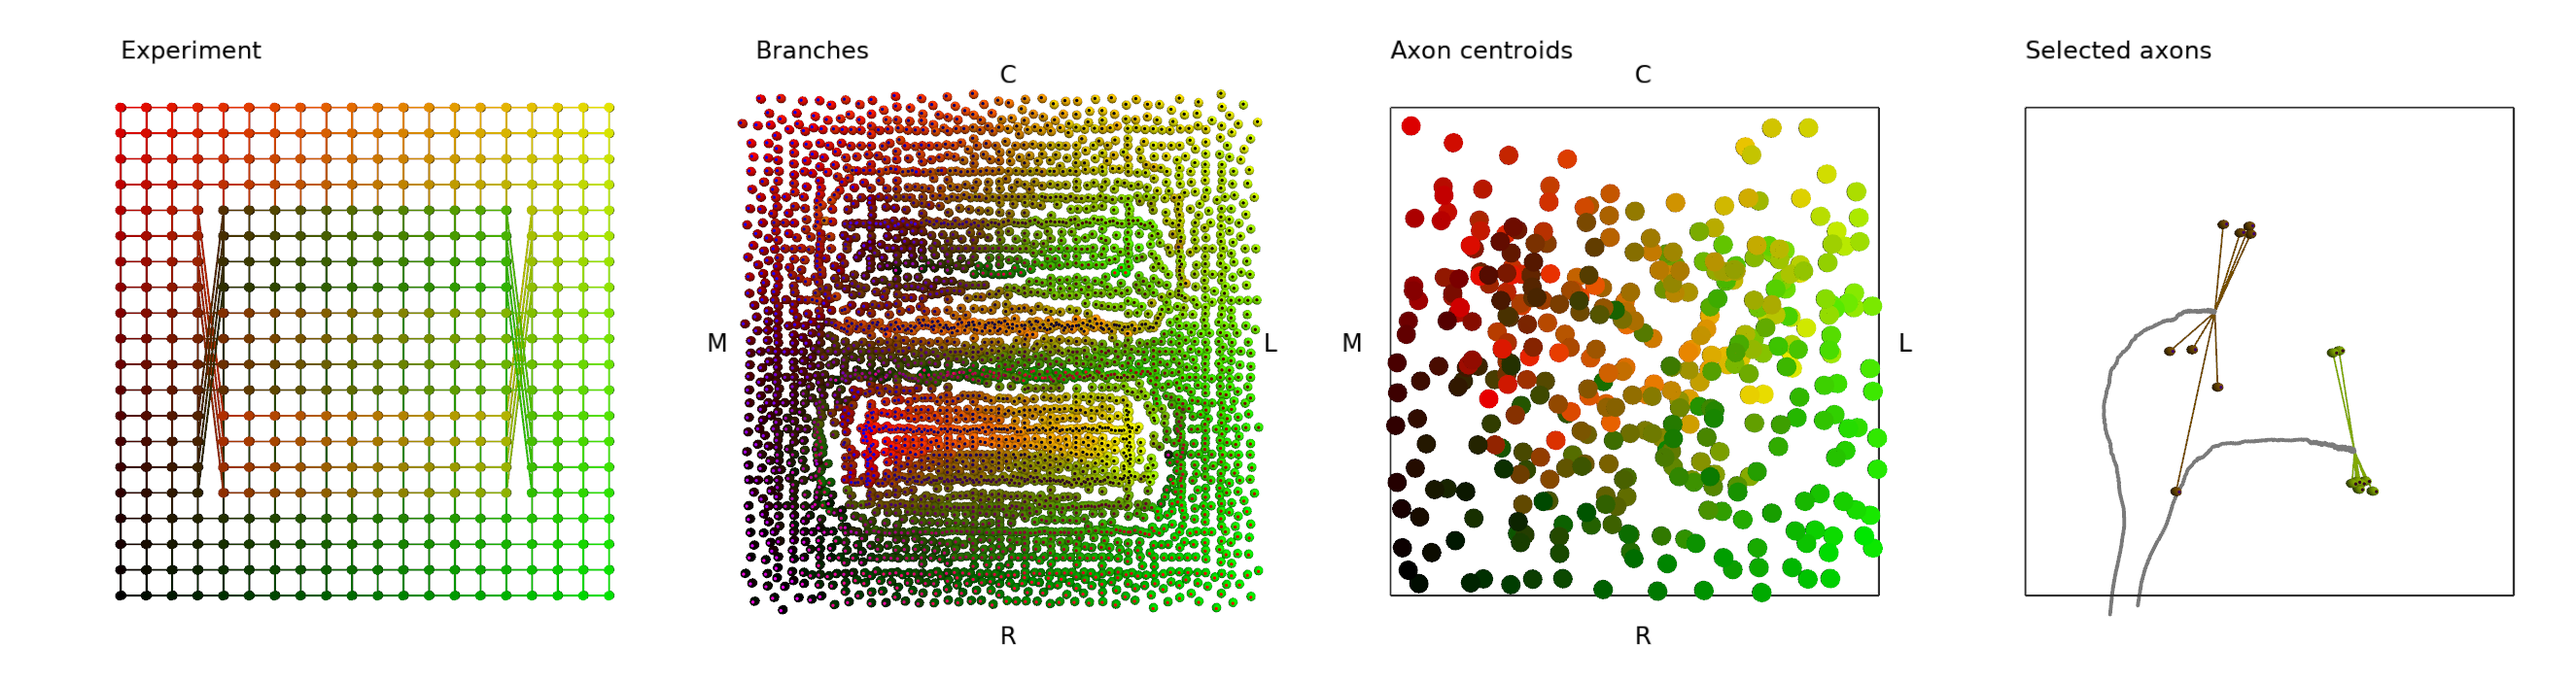
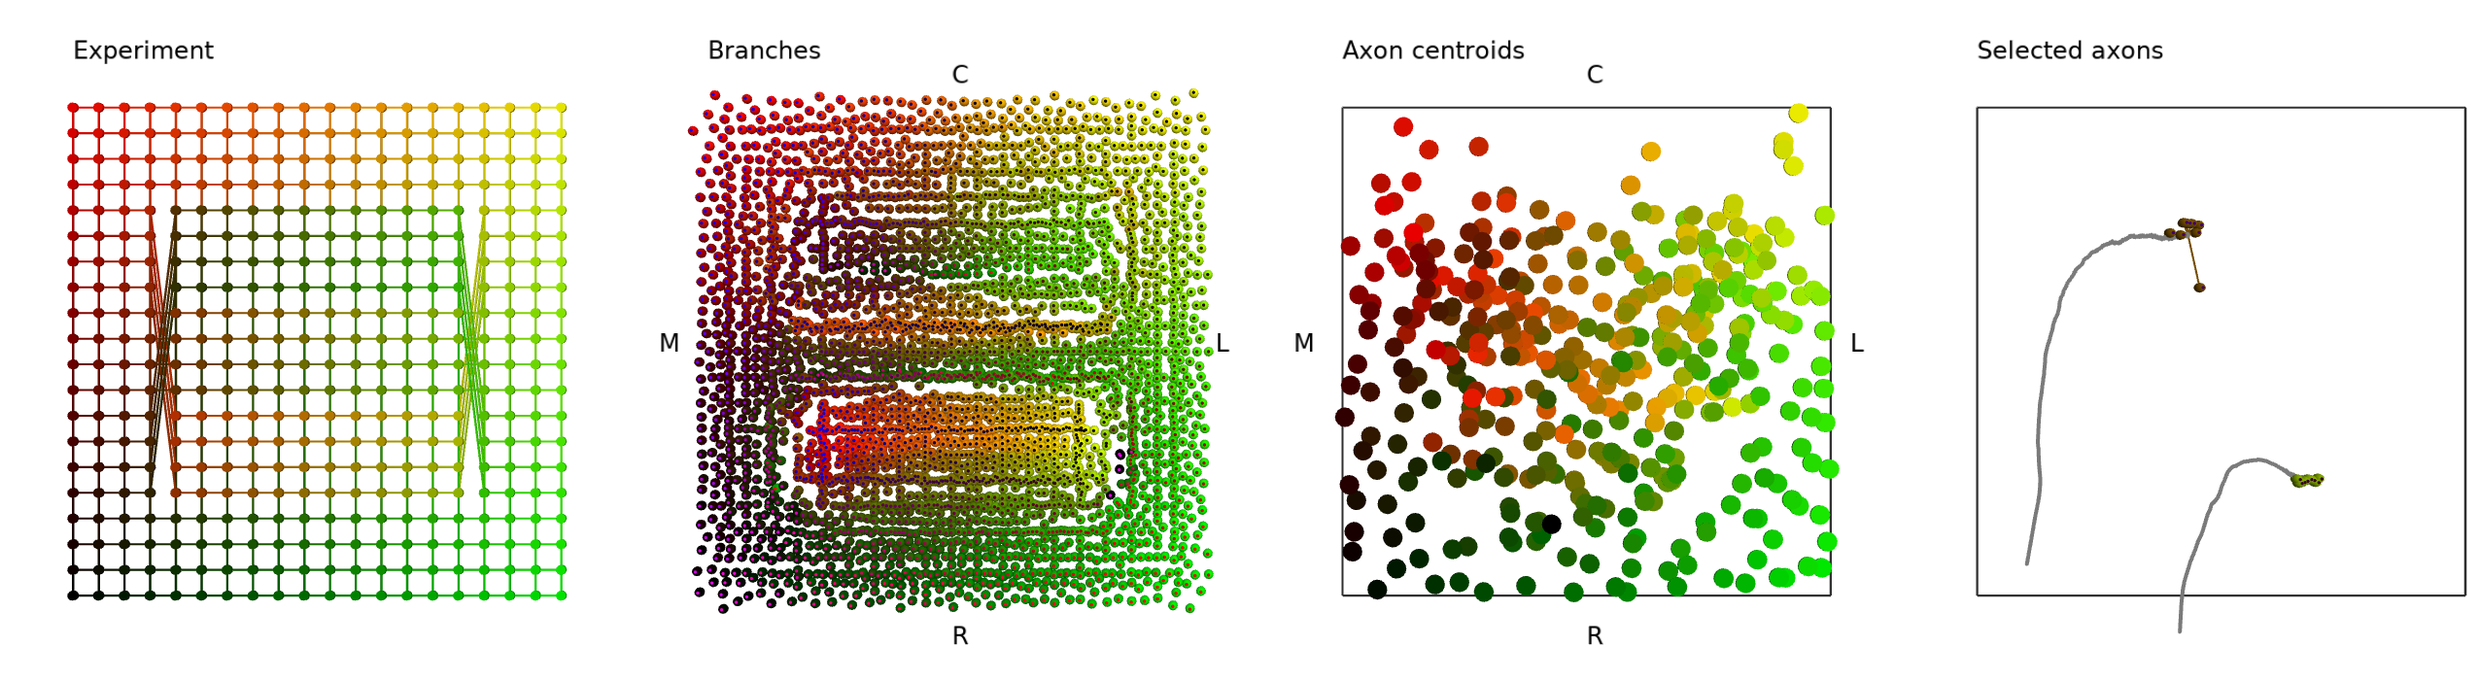
Further work on extracting information from the annealing runs

diff --git a/sim/agent/anneal1read.cpp b/sim/agent/anneal1read.cpp
@@ -1,6 +1,7 @@
 #include <sstream>
 #include <string>
 #include <stdexcept>
+#include <map>
 #include <morph/vVector.h>
 #include <morph/HdfData.h>
 #include <morph/Visual.h>
@@ -27,8 +28,11 @@ int main (int argc, char** argv)
 
     morph::HdfData data(argv[1], morph::FileAccess::ReadOnly);
     morph::vVector<morph::Vector<float, 3>> param_hist_accepted;
+    // To hold param_hist_accepted parameters in VisualModel coordinates for plotting
+    morph::vVector<morph::Vector<float, 3>> param_hist_accepted_vm_coords;
     morph::vVector<float> f_param_hist_accepted;
     morph::vVector<morph::Vector<float, 3>> param_hist_rejected;
+    morph::vVector<morph::Vector<float, 3>> param_hist_rejected_vm_coords;
     morph::vVector<float> f_param_hist_rejected;
     morph::vVector<float> T_k_hist;
     morph::vVector<float> T_cost_hist;
@@ -36,8 +40,10 @@ int main (int argc, char** argv)
     morph::vVector<float> f_x_best_hist;
     morph::vVector<float> x_best;
     data.read_contained_vals ("/param_hist_accepted", param_hist_accepted);
+    data.read_contained_vals ("/param_hist_accepted", param_hist_accepted_vm_coords);
     data.read_contained_vals ("/f_param_hist_accepted", f_param_hist_accepted);
     data.read_contained_vals ("/param_hist_rejected", param_hist_rejected);
+    data.read_contained_vals ("/param_hist_rejected", param_hist_rejected_vm_coords);
     data.read_contained_vals ("/f_param_hist_rejected", f_param_hist_rejected);
     data.read_contained_vals ("/T_k_hist", T_k_hist);
     data.read_contained_vals ("/T_cost_hist", T_cost_hist);
@@ -45,7 +51,16 @@ int main (int argc, char** argv)
     data.read_contained_vals ("/f_x_best_hist", f_x_best_hist);
     data.read_contained_vals ("/x_best", x_best);
 
-    // This code section just hacked in until I regenerate data with range_max/range_min in the code
+    // To fill with all params (accepted and rejected)
+    std::map<float, morph::Vector<float, 3>> mapped_params;
+    for (size_t i = 0; i < param_hist_accepted.size(); ++i) {
+        mapped_params[f_param_hist_accepted[i]] = param_hist_accepted[i];
+    }
+    for (size_t i = 0; i < param_hist_rejected.size(); ++i) {
+        mapped_params[f_param_hist_rejected[i]] = param_hist_rejected[i];
+    }
+
+    // This code section just hacked in until I regenerate data with range_max/range_min in the hdf data
     morph::vVector<morph::Vector<float,2>> param_ranges;
     morph::Vector<float, 3> range_min;
     morph::Vector<float, 3> range_max;
@@ -91,9 +106,9 @@ int main (int argc, char** argv)
         }
     }
 
-    for (auto& phr : param_hist_rejected) { phr /= range_max; }
-    for (auto& pha : param_hist_accepted) { pha /= range_max; }
-    //param_hist_rejected /= range_max;
+    // This converts param_hist_rejected to model coords.
+    for (auto& phr : param_hist_rejected_vm_coords) { phr /= range_max; }
+    for (auto& pha : param_hist_accepted_vm_coords) { pha /= range_max; }
 
     // How about I write out JSON config files to run the agent for the best parameter set(s)?
     std::cout << "Best params: " << x_best << std::endl;
@@ -101,6 +116,24 @@ int main (int argc, char** argv)
     mdl.set (pnames[1], x_best[1]);
     mdl.set (pnames[2], x_best[2]);
     mdl.write (modelid+std::string("_x_best.json"));
+
+    // How about the next best one?
+#if 0
+    for (auto ps : mapped_params) {
+        std::cout << "params " << ps.second << " gave objective value " << ps.first << std::endl;
+    }
+#endif
+    auto mp = mapped_params.begin(); // Should be the best
+    mp++; // Next best
+    mdl.set (pnames[0], mp->second[0]);
+    mdl.set (pnames[1], mp->second[1]);
+    mdl.set (pnames[2], mp->second[2]);
+    mdl.write (modelid+std::string("_x_2nd.json"));
+    mp++; // Next best
+    mdl.set (pnames[0], mp->second[0]);
+    mdl.set (pnames[1], mp->second[1]);
+    mdl.set (pnames[2], mp->second[2]);
+    mdl.write (modelid+std::string("_x_3rd.json"));
 
     morph::vVector<float> simtime (T_k_hist.size());
     simtime.linspace (0.0, (float)T_k_hist.size());
@@ -117,7 +150,7 @@ int main (int argc, char** argv)
     sv->radiusFixed = 0.002f;
     sv->colourScale.compute_autoscale (0, 30);
     sv->cm.setType (morph::ColourMapType::Jet);
-    sv->setDataCoords ((std::vector<morph::Vector<float, 3>>*)&param_hist_accepted);
+    sv->setDataCoords ((std::vector<morph::Vector<float, 3>>*)&param_hist_accepted_vm_coords);
     sv->setScalarData ((std::vector<float>*)&f_param_hist_accepted);
     sv->sizeFactor = 0.05f;//1.0f/300.0f;
     sv->finalize();
@@ -127,7 +160,7 @@ int main (int argc, char** argv)
     sv2->radiusFixed = 0.002f;
     sv2->colourScale.compute_autoscale (0, 30);
     sv2->cm.setType (morph::ColourMapType::Plasma);
-    sv2->setDataCoords ((std::vector<morph::Vector<float, 3>>*)&param_hist_rejected);
+    sv2->setDataCoords ((std::vector<morph::Vector<float, 3>>*)&param_hist_rejected_vm_coords);
     sv2->setScalarData ((std::vector<float>*)&f_param_hist_rejected);
     sv2->sizeFactor = sv->sizeFactor;
     sv2->finalize();

diff --git a/sim/agent/agent1.h b/sim/agent/agent1.h
@@ -227,6 +227,8 @@ struct Agent1
             nss << "./paper/images/" << this->title << ".png";
             this->v->saveImage (nss.str());
             this->vis(this->conf->getUInt ("steps", 1000));
+            AgentMetrics<T> am = this->get_metrics();
+            std::cout << "Final SOS: " << am.sos << " and crosscount = " << am.crosscount << std::endl;
             if (this->immediate_exit == false) { this->v->keepOpen(); }
         }
     }
